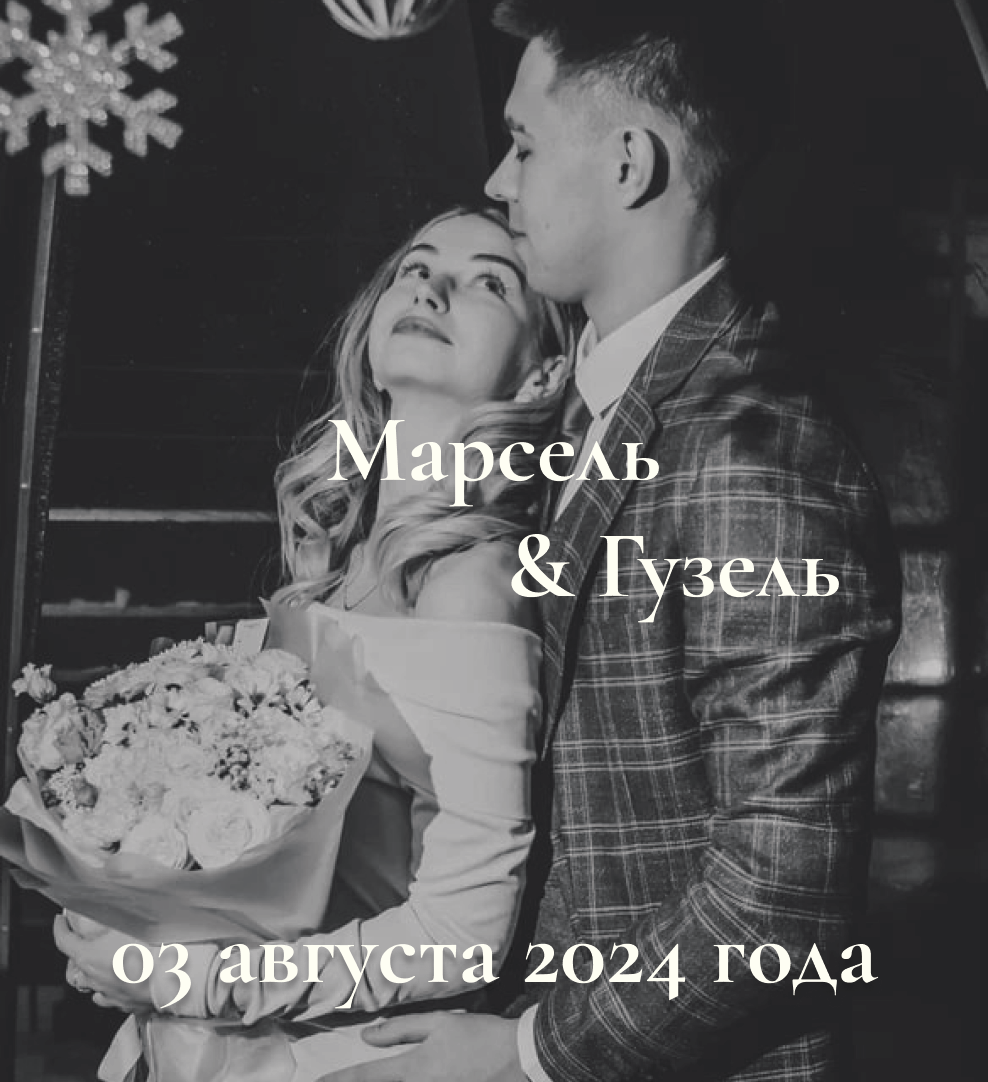
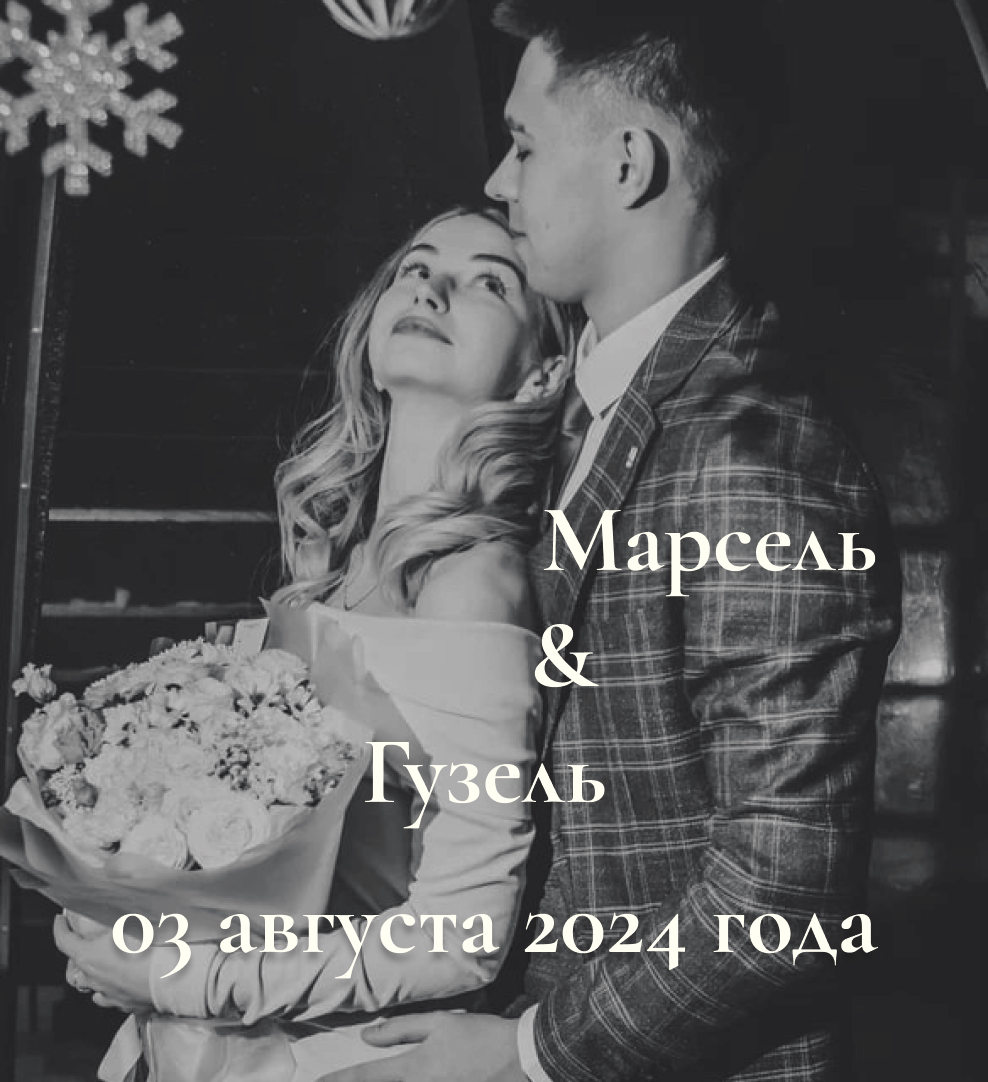
fix: some bugs

diff --git a/wedding.client/src/pages/App.tsx b/wedding.client/src/pages/App.tsx
@@ -100,7 +100,7 @@ const App: React.FC<inviteProps> = ({ id }) => {
                             <Typography fontSize={isSmallScreen ? '1.5rem' : isMediumScreen ? '2.125rem' : '2.125rem'} style={{ fontFamily: "Times New Roman" }} variant="h4" component="h2" gutterBottom>Мы приглашаем вас разделить снами этот особенный день!</Typography>
                         </div>
                         <div className="my-10">
-                            <Typography fontSize={isSmallScreen ? '2.125rem' : isMediumScreen ? '2.5rem' : '2.5rem'} style={{ fontFamily: "Times New Roman" }} variant="h4" component="h2" gutterBottom>{event?.date ? new Date(event?.date).toLocaleDateString('ru-RU', { day: '2-digit', month: '2-digit', year: 'numeric' }) : 'загрузка'}</Typography>
+                            <Typography fontSize={isSmallScreen ? '2.125rem' : isMediumScreen ? '2.5rem' : '2.5rem'} style={{ fontFamily: "Cormorant Infant Bold" }} variant="h4" component="h2" gutterBottom>{event?.date ? new Date(event?.date).toLocaleDateString('ru-RU', { day: '2-digit', month: '2-digit', year: 'numeric' }) : 'загрузка'}</Typography>
                         </div>
                     </div>
                     <div className="bg-backgroundGreen border-6 border-backgroundGreen">
@@ -144,7 +144,7 @@ const App: React.FC<inviteProps> = ({ id }) => {
                     <div className="mt-20 mx-10">
                         <Typography style={{ fontFamily: "Cormorant Infant" }} variant="h4" component="h2" gutterBottom>ДЕТАЛИ</Typography>
                         <div className="my-10">
-                            <Typography fontSize={isSmallScreen ? '1.5rem' : isMediumScreen ? '2.125rem' : '2.125rem'} style={{ fontFamily: "Times New Roman" }} variant="h4" component="h2" gutterBottom>Цветы</Typography>
+                            <Typography fontSize={isSmallScreen ? '1.5rem' : isMediumScreen ? '2.125rem' : '2.125rem'} style={{ fontFamily: "Times New Roman Bold" }} variant="h4" component="h2" gutterBottom>Цветы</Typography>
                         </div>
                         <div className="mx-10">
                         <Typography fontSize={isSmallScreen ? '1.5rem' : isMediumScreen ? '2.125rem' : '2.125rem'} style={{ fontFamily: "Times New Roman", whiteSpace: "normal", overflowWrap: "break-word" }} variant="h4" component="h2" gutterBottom>Чтобы праздничное
@@ -163,7 +163,7 @@ const App: React.FC<inviteProps> = ({ id }) => {
                     <div className="my-10">
                         <Typography style={{ fontFamily: "Cormorant Infant" }} variant="h4" component="h2" gutterBottom>***</Typography>
                     </div>
-                    <Typography fontSize={isSmallScreen ? '1.5rem' : isMediumScreen ? '2.125rem' : '2.125rem'} style={{ fontFamily: "Times New Roman" }} variant="h4" component="h2" gutterBottom>Дорогие дамы</Typography>
+                    <Typography fontSize={isSmallScreen ? '1.5rem' : isMediumScreen ? '2.125rem' : '2.125rem'} style={{ fontFamily: "Times New Roman Bold" }} variant="h4" component="h2" gutterBottom>Дорогие дамы</Typography>
                     <div className="mt-8 mx-10">
                         <Typography fontSize={isSmallScreen ? '1.5rem' : isMediumScreen ? '2.125rem' : '2.125rem'} style={{ fontFamily: "Times New Roman", whiteSpace: "normal", overflowWrap: "break-word" }} variant="h4" component="h2" gutterBottom>Учитывая, что часть
                             мероприятия будет
@@ -175,7 +175,7 @@ const App: React.FC<inviteProps> = ({ id }) => {
                     <div className="my-10">
                         <Typography style={{ fontFamily: "Cormorant Infant" }} variant="h4" component="h2" gutterBottom>***</Typography>
                     </div>
-                    <Typography fontSize={isSmallScreen ? '1.5rem' : isMediumScreen ? '2.125rem' : '2.125rem'} style={{ fontFamily: "Times New Roman" }} variant="h4" component="h2" gutterBottom>Небольшая просьба</Typography>
+                    <Typography fontSize={isSmallScreen ? '1.5rem' : isMediumScreen ? '2.125rem' : '2.125rem'} style={{ fontFamily: "Times New Roman Bold" }} variant="h4" component="h2" gutterBottom>Небольшая просьба</Typography>
                     <div className="my-8 mx-10">
                         <Typography fontSize={isSmallScreen ? '1.5rem' : isMediumScreen ? '2.125rem' : '2.125rem'} style={{ fontFamily: "Times New Roman" }} variant="h4" component="h2" gutterBottom>От всего сердца просим вас
                                 воздержаться от криков

diff --git a/wedding.client/src/widgets/CountdownTimer.tsx b/wedding.client/src/widgets/CountdownTimer.tsx
@@ -28,36 +28,20 @@ const CountdownTimer: React.FC<CountdownTimerProps> = ({ targetDate }) => {
     return (
         <Grid container spacing={2} justifyContent="center">
             <Grid item>
-                <Typography variant="h4" component="div" style={{ fontFamily: "Cormorant Infant" }}>
-                    {days} *
-                </Typography>
-                <Typography variant="body1" component="div" style={{ textAlign: "center" }}>
-                   дней
-                </Typography>
+                <Typography variant="h4" component="div" style={{ fontFamily: "Cormorant Infant" }}>{days} *</Typography>
+                <Typography variant="body1" component="div" style={{ textAlign: "left" }}>дней</Typography>
             </Grid>
             <Grid item>
-                <Typography variant="h4" component="div" style={{ fontFamily: "Cormorant Infant" }}>
-                    {hours} *
-                </Typography>
-                <Typography variant="body1" component="div" style={{ textAlign: "center" }}>
-                    часов
-                </Typography>
+                <Typography variant="h4" component="div" style={{ fontFamily: "Cormorant Infant" }}>{hours} *</Typography>
+                <Typography variant="body1" component="div" style={{ textAlign: "left" }}>часов</Typography>
             </Grid>
             <Grid item>
-                <Typography variant="h4" component="div" style={{ fontFamily: "Cormorant Infant" }}>
-                    {minutes} *
-                </Typography>
-                <Typography variant="body1" component="div" style={{ textAlign: "center" }}>
-                    минут
-                </Typography>
+                <Typography variant="h4" component="div" style={{ fontFamily: "Cormorant Infant" }}>{minutes} *</Typography>
+                <Typography variant="body1" component="div" style={{ textAlign: "left" }}>минут</Typography>
             </Grid>
             <Grid item>
-                <Typography variant="h4" component="div" style={{ fontFamily: "Cormorant Infant" }}>
-                    {seconds}
-                </Typography>
-                <Typography variant="body1" component="div" style={{ textAlign: "center" }}>
-                    секунд
-                </Typography>
+                <Typography variant="h4" component="div" style={{ fontFamily: "Cormorant Infant" }}>{seconds}</Typography>
+                <Typography variant="body1" component="div" style={{ textAlign: "left" }}>секунд</Typography>
             </Grid>
         </Grid>
     );

diff --git a/wedding.client/src/app/styles/index.css b/wedding.client/src/app/styles/index.css
@@ -6,8 +6,22 @@
 }
 
 @font-face {
+    font-family: 'Cormorant Infant Bold';
+    src: url('CormorantInfant/CormorantInfant-Bold.ttf') format('truetype');
+    font-weight: normal;
+    font-style: normal;
+}
+
+@font-face {
     font-family: 'Times New Roman';
     src: url('TimesNewRoman/timesnrcyrmt.ttf') format('truetype');
+    font-weight: normal;
+    font-style: normal;
+}
+
+@font-face {
+    font-family: 'Times New Roman Bold';
+    src: url('TimesNewRoman/timesnrcyrmt_bold.ttf') format('truetype');
     font-weight: normal;
     font-style: normal;
 }
@@ -18,8 +32,8 @@
 
 
 a {
-  font-weight: 500;
-  color: #646cff;
+    font-weight: 500;
+    color: #646cff;
 }
 a:hover {
   color: #535bf2;

diff --git a/Application/Events/Commands/Questionnaire/QuestionnaireCommand.cs b/Application/Events/Commands/Questionnaire/QuestionnaireCommand.cs
@@ -37,11 +37,14 @@ public class QuestionnaireCommandHandler(BaseServicePool baseServicePool) : IReq
         else if (request.isCome.Equals("couple"))
         {
             isCome = true;
-            coupleName = request.coupleName;
+            coupleName = currentGuest.CoupleName;
         }
         else if (request.isCome.Equals("false"))
-            isCome= false;
-
+        {
+            isCome = false;
+            coupleName = currentGuest.CoupleName;
+        }
+            
         currentGuest.Alcohol = request.alcohols;
         currentGuest.CoupleName = coupleName;
         currentGuest.IsCome = isCome;
